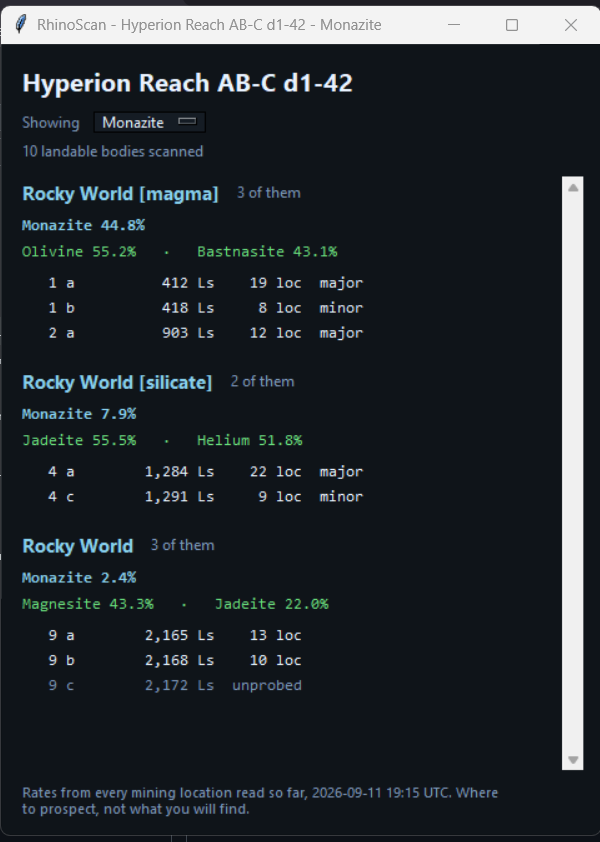
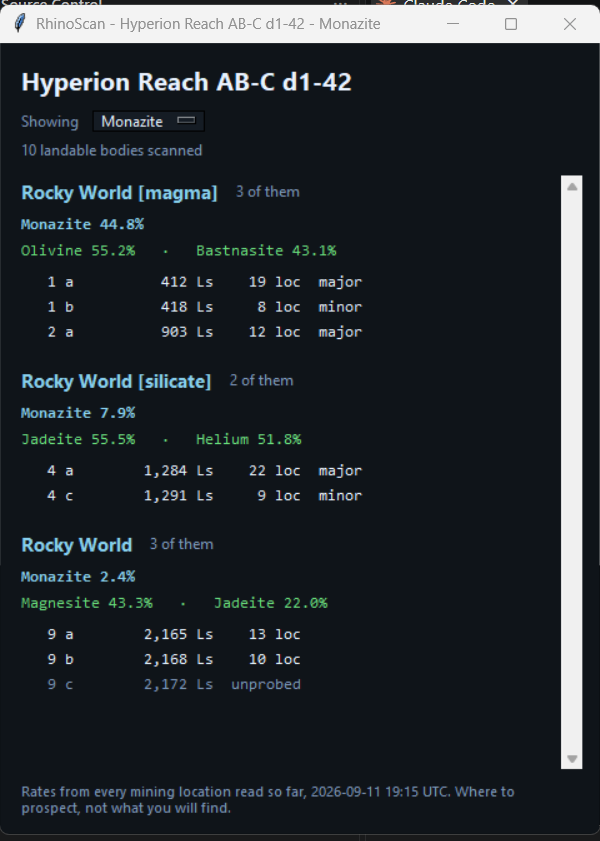
2.8.2: the window stops fighting itself
The footer flipped between one line and two, forever, and the list above it
jumped by the difference. A scrollbar walking up and down on a window nobody
was touching, and eleven thousand lines of debug log for one screenshot.

A label that wraps has to be told what width to wrap at, and the thing that
knows it is the window, so the wrapper listens for the window's resize. A
child widget's bind tags carry its toplevel, though, so that listener heard
every widget in the window - the label it wraps included. The label's own
width then set the wraplength, which changed the label's height, which was
another resize. It answers only for the widget it was bound to now.

Found by logging what the window was actually being told: every Configure with
the widget that sent it, and a line on the window's own destruction. Those
lines stay, at debug level.

The README screenshots are regenerated, and the bookmark list and the guide
arrow have pictures of their own. The docs maker stands the game down for the
arrow shot rather than photographing whatever cockpit happens to be open.

Claude-Session: https://claude.ai/code/session_01GMHMeFPzvTGmvgGbU7Cfnf

diff --git a/rs_ui/scan.py b/rs_ui/scan.py
@@ -70,11 +70,21 @@ def show(parent, register, sheet, focus=None, variable=None, materials=()):
     if _window is not None and _window.winfo_exists():
         _window.destroy()
 
+    logger.debug(f"scan: open, system={register.system!r} focus={focus!r}")
     _window = tk.Toplevel(parent)
     _window.configure(bg=BG)
+    # Debug only, and only on the window itself: whatever takes it away, this
+    # is the line that names it. A window that vanishes with no Python frame
+    # behind it is the one thing the stack cannot be asked about afterwards.
+    _window.bind("<Destroy>", _log_destroy, add="+")
     _scan = (register, sheet, focus, variable, materials)
     _scan_view(_window)
     return _window
+
+
+def _log_destroy(event):
+    if _window is not None and event.widget is _window:
+        logger.debug("scan: the window was destroyed")
 
 
 def _clear(window):
@@ -90,6 +100,7 @@ def _scan_view(window):
     landed while it was behind them.
     """
     register, sheet, focus, variable, materials = _scan
+    logger.debug("scan: building the body list")
     _clear(window)
     window.title(f"RhinoScan - {register.system or 'unknown system'}"
                  + (f" - {focus}" if focus else ""))
@@ -191,6 +202,7 @@ def _fit(window, listing, wrapped=(), extra=0):
     width = min(max(content, 420), MAX_WIDTH)
     wanted = max(window.winfo_reqheight(), listing.winfo_reqheight() + CHROME)
     height = min(max(wanted, 260), MAX_HEIGHT)
+    logger.debug(f"scan: fit to {width}x{height}")
     window.geometry(f"{width}x{height}")
     window.minsize(480, 240)
 
@@ -225,7 +237,11 @@ def _picker(parent, variable, materials):
     row.pack(fill="x", pady=(6, 2))
     tk.Label(row, text="Showing", bg=BG, fg=DIM, font=("Segoe UI", 9)).pack(side="left")
 
+    before = variable.get()
     picker = tk.OptionMenu(row, variable, *materials)
+    if variable.get() != before:
+        logger.debug(f"picker: OptionMenu moved the material {before!r} -> "
+                     f"{variable.get()!r}")
     picker.config(relief="solid", borderwidth=1, highlightthickness=0,
                   bg=PANEL, fg=FG, activebackground=PANEL, activeforeground=ACCENT,
                   anchor="w", padx=6, pady=0, font=("Segoe UI", 9))
@@ -346,6 +362,7 @@ def _bookmarks_view(window, system, body, records):
     page in the browser, which meant leaving the game to read three numbers.
     """
     global _body
+    logger.debug(f"scan: building the bookmarks of {body}, {len(records)} of them")
     _body = (window, system, body, records)
     _clear(window)
     window.title(f"RhinoScan - {body} - bookmarks")
@@ -646,6 +663,7 @@ class _Wrapper:
         self.labels = []
         self.margin = margin
         self.width = 0
+        self.source = source
         source.bind("<Configure>", self._resize, add="+")
 
     def __call__(self, label):
@@ -655,6 +673,14 @@ class _Wrapper:
         return label
 
     def _resize(self, event):
+        # Only the widget this was bound to. A child's bindtags carry its
+        # toplevel, so a wrapper on the window hears every widget inside it -
+        # including the label it wraps, whose own width then set the
+        # wraplength, which changed the label's height, which was another
+        # Configure. The footer flipped between one line and two forever, and
+        # the list under it jumped by the difference.
+        if event.widget is not self.source:
+            return
         if event.width <= 80:
             return
         self.width = event.width - self.margin

diff --git a/rs_tests/make_docs_images.py b/rs_tests/make_docs_images.py
@@ -148,8 +148,16 @@ def main_images():
     body = f"{SYSTEM} 4 a"
     marks = bookmarks(body, card)
 
-    window = scan.show(root, found, sheet, None,
-                       variable=main._material, materials=picker)
+    # The material back to All first, and its trace let through before
+    # anything is built. The panel reopens the scan window when the material
+    # changes, and that was destroying the window this grabs, halfway
+    # through settling it.
+    main._material.set("All")
+    settle(root, 10)
+
+    scan.show(root, found, sheet, None,
+              variable=main._material, materials=picker)
+    window = scan._window
     scan._bookmarks_view(window, SYSTEM, body, marks)
     window.attributes("-topmost", True)
     window.deiconify()
@@ -169,6 +177,12 @@ def overlay_image(root, scale, mark):
     behind it - which on this machine is an editor. A backdrop keeps the
     picture about the arrow.
     """
+    # Elite off, as far as the overlay is concerned. With the game running it
+    # parks itself over the game window, and the picture would be half a
+    # cockpit that is not ours to publish. Off, it falls back to the middle of
+    # the screen, which is where the backdrop goes.
+    was_rect = overlay._game_rect
+    overlay._game_rect = lambda: None
     was = spotmark.read_status
     spotmark.read_status = lambda *args, **kwargs: {
         "BodyName": mark["planet_name"], "Latitude": 12.3400,
@@ -179,16 +193,24 @@ def overlay_image(root, scale, mark):
     backdrop.overrideredirect(True)
     backdrop.configure(bg="#05070a")
     backdrop.attributes("-topmost", True)
-    backdrop.geometry(f"420x260+{(root.winfo_screenwidth() - 420) // 2 - 90}+20")
+    backdrop.geometry(f"{overlay.WIDTH + 80}x{overlay.HEIGHT + 60}"
+                      f"+{(root.winfo_screenwidth() - overlay.WIDTH) // 2 - 40}+10")
     backdrop.deiconify()
     settle(backdrop, 10)
 
     window = overlay.start(root, mark)
     settle(window, 20)
+
+    # The backdrop under where the overlay actually landed, not where it was
+    # guessed to land: the overlay parks itself on the Elite window if one is
+    # running, and a picture half on the dark rectangle is worse than none.
+    window.lift()
+    settle(window, 10)
     grab(window, "guide.png", scale)
     overlay.stop()
     backdrop.destroy()
     spotmark.read_status = was
+    overlay._game_rect = was_rect
 
 
 if __name__ == "__main__":

diff --git a/rs_ui/main.py b/rs_ui/main.py
@@ -210,6 +210,7 @@ def open_scan():
     """
     if not _frame:
         return
+    logger.debug(f"open_scan: focus={_focus()!r}")
     try:
         scan.show(_frame.winfo_toplevel(), _register, _sheet, _focus(),
                   variable=_material,
@@ -230,7 +231,10 @@ def _on_material_changed(*_):
     is still on screen, and destroying that menu's parent from underneath it is
     how Tk is told to close a window in the middle of closing itself.
     """
-    if _frame and scan.is_open():
+    open_now = bool(_frame) and scan.is_open()
+    logger.debug(f"material changed to {_material.get()!r}, "
+                 f"scan open={open_now} - {'reopening' if open_now else 'nothing to do'}")
+    if open_now:
         _frame.after_idle(open_scan)
 
 

diff --git a/rs_core/update.py b/rs_core/update.py
@@ -23,7 +23,7 @@ import zipfile
 
 from rs_core.logging import logger
 
-VERSION = "2.8.1"
+VERSION = "2.8.2"
 
 # For testing the update path without publishing a throwaway release: set
 # RHINOSPOTTER_VERSION to something older and the running plugin will see the

diff --git a/README.md b/README.md
@@ -29,6 +29,11 @@ with the location, material, rigs, heading, coordinates and when it was
 marked. **Most rigs first** - of the patches you bookmarked on this body, the
 best one is the top row. **Back**, top left, returns to the body list.
 
+<p align="center">
+  <img src="docs/bookmarks.png" width="620"
+       alt="The bookmarks of one body, three rows with Guide, Card and Delete">
+</p>
+
 Each row carries three buttons. **Card** opens that bookmark's PNG in whatever
 shows PNGs here, which is the thing that can then send it on.
 
@@ -45,6 +50,11 @@ you can type over.
 click-through, showing the direction to that patch and how far. It works from
 orbital cruise down to the SRV, and Elite has to run **borderless or
 windowed** - nothing draws over an exclusive fullscreen.
+
+<p align="center">
+  <img src="docs/guide.png" width="260"
+       alt="The guide arrow, with the distance to the patch under it">
+</p>
 
 The arrow points relative to your nose while the game gives a heading. Higher
 up it gives none, and the arrow then points north-up, dimmed and labelled with

diff --git a/CHANGELOG.md b/CHANGELOG.md
@@ -1,5 +1,23 @@
 # Changelog
 
+## 2.8.2
+
+**The window stops fighting itself.** The footer flipped between one line and
+two, forever, and the list above it jumped by the difference - a scrollbar
+walking up and down on a window nobody was touching.
+
+A label that wraps is told what width to wrap at, and the thing that knows
+that width is the window, so the wrapper listens for the window's resize. But
+a child widget's bind tags carry its toplevel, so that listener was hearing
+every widget in the window - including the label it wraps. The label's own
+width set the wraplength, which changed the label's height, which was another
+resize. It now answers only for the widget it was bound to.
+
+Eleven thousand lines of debug log for one screenshot, and the window was
+being torn down mid-render; both are gone. The screenshots in the README are
+regenerated from the code as it stands, and the bookmark list and the guide
+arrow have pictures of their own now.
+
 ## 2.8.1
 
 **A guide that never got going says why for ten seconds, then goes.** It was
